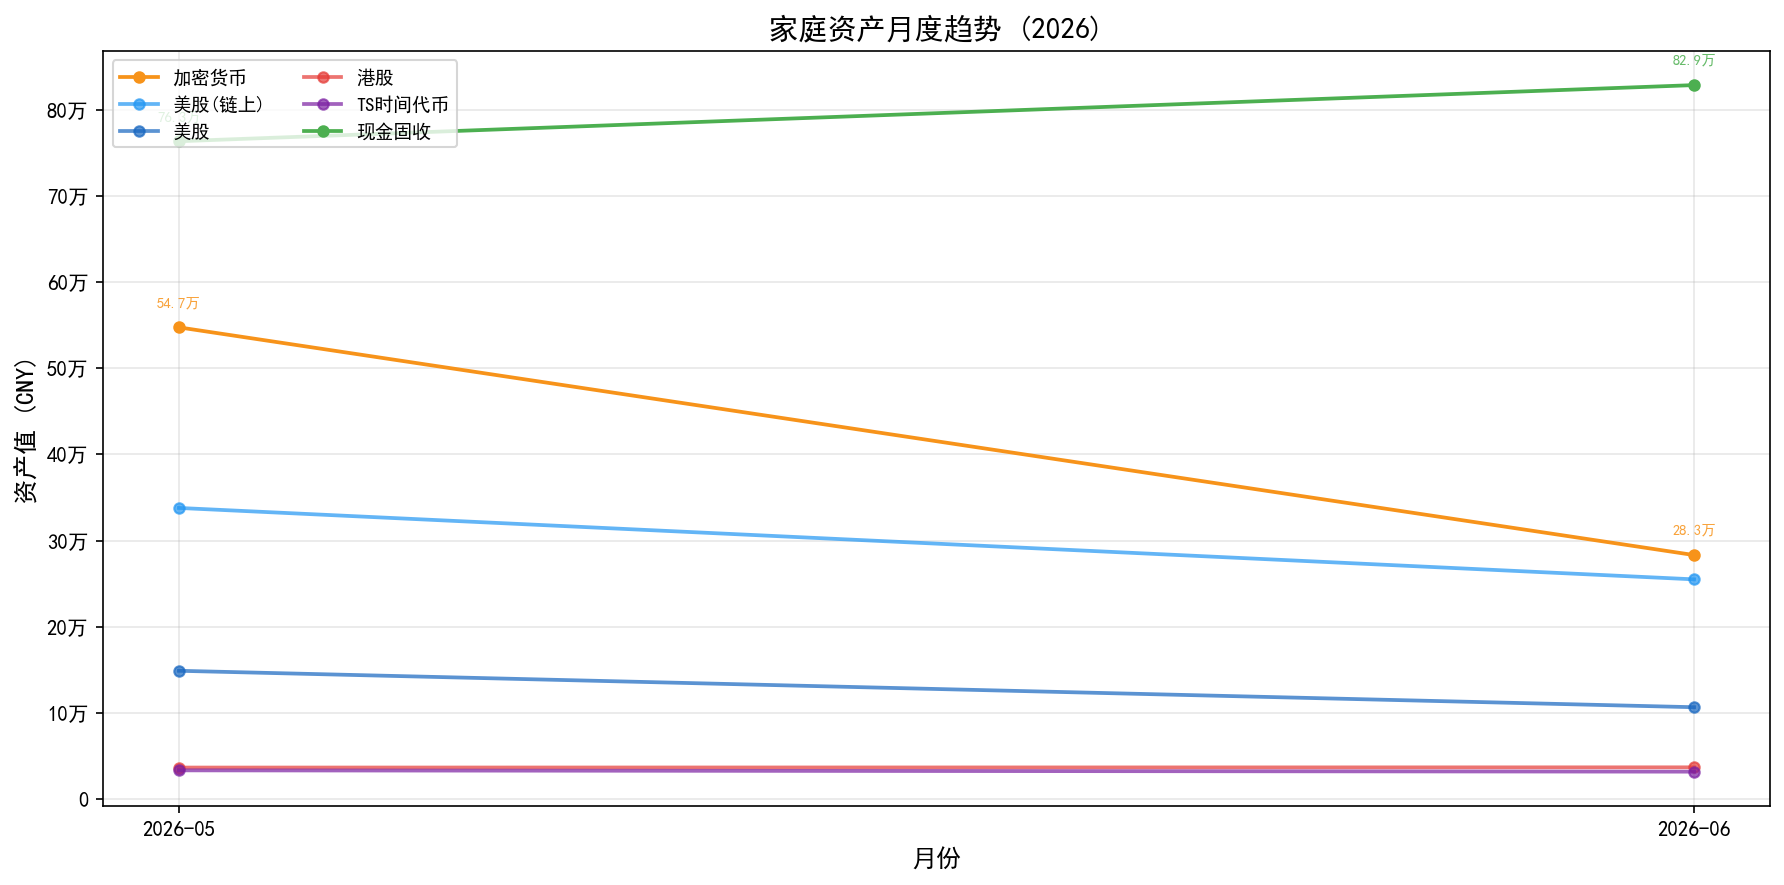
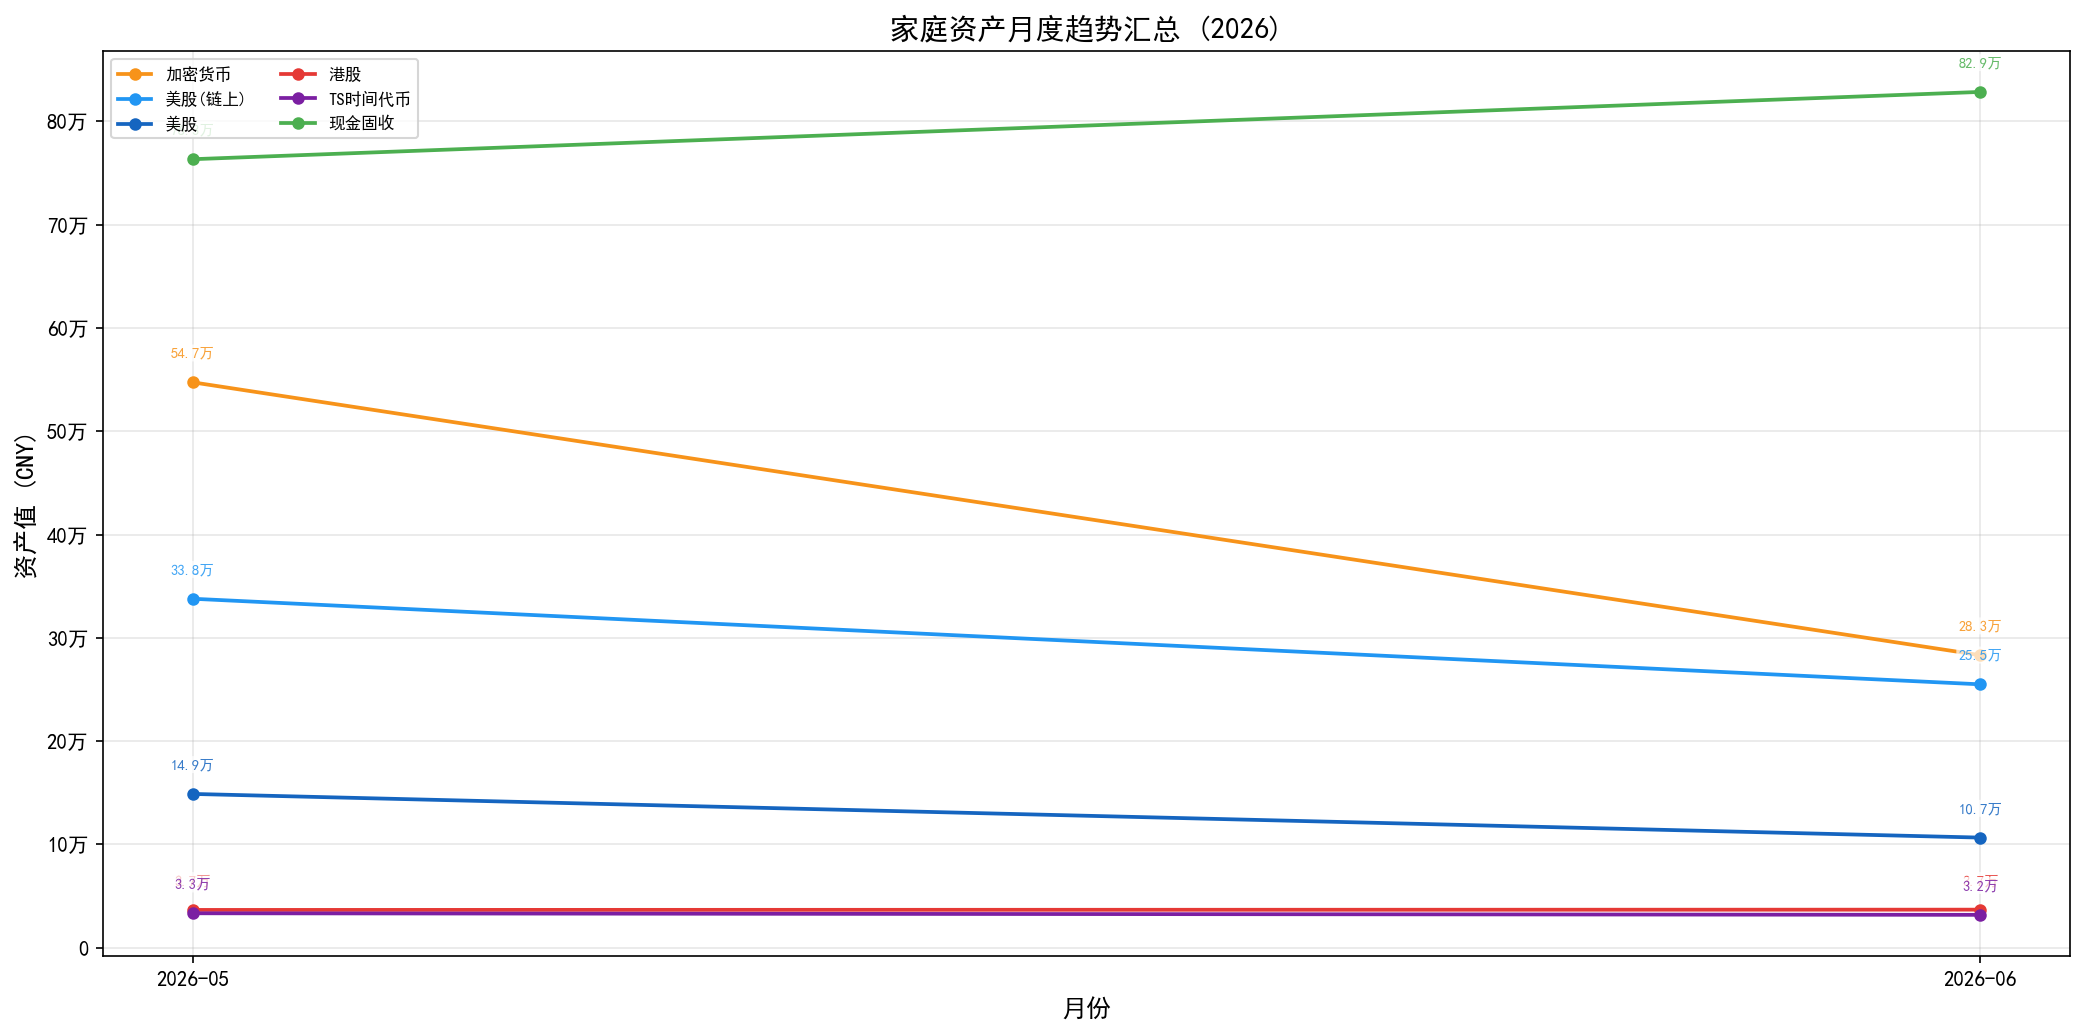
auto: [13 files] 趋势图标注全资产+单独子图 + 社保文件移至company-setup/ (.md .py .png .html)

diff --git a/01-Projects/family-investment/scripts/generate_trend_chart.py b/01-Projects/family-investment/scripts/generate_trend_chart.py
@@ -1,21 +1,18 @@
 #!/usr/bin/env python3
 """
-从月度资产报告提取数据，生成资产趋势折线图。
+从月度资产报告提取数据，生成资产趋势图（汇总图 + 每类资产单独子图）。
 数据源: research/portfolio/reports/家庭资产报告-YYYY-MM.md
-输出:   research/portfolio/reports/images/asset-trend-2026.png
+输出:   research/portfolio/reports/images/
 """
 import re
-import os
 import sys
 from pathlib import Path
-from datetime import datetime
 
 import matplotlib
 matplotlib.use('Agg')
 import matplotlib.pyplot as plt
 import matplotlib.ticker as mticker
 
-# 解决中文字体问题
 plt.rcParams['font.sans-serif'] = ['SimHei', 'Microsoft YaHei', 'DejaVu Sans']
 plt.rcParams['axes.unicode_minus'] = False
 
@@ -24,17 +21,21 @@ REPORTS_DIR = ROOT / 'research' / 'portfolio' / 'reports'
 OUTPUT_DIR = REPORTS_DIR / 'images'
 OUTPUT_DIR.mkdir(parents=True, exist_ok=True)
 
-# 需要从表格中提取的资产类别（按报告中的名称）
 ASSET_KEYS = ['加密货币', '美股(链上)', '美股', '港股', 'A股',
               'TS时间代币', '现金固收', '总资产', '净资产']
 
+COLORS = {
+    '加密货币': '#F7931A', '美股(链上)': '#2196F3', '美股': '#1565C0',
+    '港股': '#E53935', 'A股': '#D32F2F', 'TS时间代币': '#7B1FA2',
+    '现金固收': '#4CAF50', '总资产': '#757575', '净资产': '#000000'
+}
+
 
 def parse_report(filepath):
-    """解析单份月度报告的资产总览表格，返回 {date: {类别: 金额}}"""
+    """解析单份月度报告的资产总览表格"""
     with open(filepath, 'r', encoding='utf-8') as f:
         content = f.read()
 
-    # 提取日期（从 yaml frontmatter 或标题）
     date_match = re.search(r'date:\s*(\d{4}-\d{2}-\d{2})', content)
     if not date_match:
         date_match = re.search(r'(\d{4}-\d{2}-\d{2})', content)
@@ -42,35 +43,111 @@ def parse_report(filepath):
         return None, None
     date_str = date_match.group(1)
 
-    # 定位"一、资产总览"表格
-    # 表格格式: | 类别 | 金额(CNY) | 占比 |
-    # 提取含有 ¥ 符号的行
     result = {}
     in_section = False
     for line in content.split('\n'):
-        # 定位到资产总览章节
         if '一、资产总览' in line or '资产总览' in line:
             in_section = True
             continue
-        # 遇到下一个章节则退出
         if in_section and re.match(r'^##\s', line):
             break
         if not in_section:
             continue
-        # 解析表格行: | 类别 | ¥xxx | xx% |
         match = re.match(r'\|\s*(.+?)\s*\|\s*¥?([\d,]+(?:\.\d+)?)\s*\|', line)
         if match:
             name = match.group(1).strip()
             amount = float(match.group(2).replace(',', ''))
             result[name] = amount
 
-    return date_str[:7], result  # 返回 2026-05 格式
+    return date_str[:7], result
+
+
+def _get_valid_series(all_dates, all_data, key):
+    """返回 (dates, values) 过滤掉 None"""
+    vals = all_data.get(key, [])
+    dates = [d for d, v in zip(all_dates, vals) if v is not None]
+    values = [v for v in vals if v is not None]
+    return dates, values
+
+
+def _annotate_points(ax, dates, values, color, fmt='{:.1f}万'):
+    """在数据点上标注金额"""
+    for x, y in zip(dates, values):
+        text = fmt.format(y / 10000) if y >= 10000 else fmt.format(y)
+        # 垂直偏移：根据数据密度动态调整
+        offset = 12
+        ax.annotate(text, (x, y),
+                    textcoords='offset points', xytext=(0, offset),
+                    fontsize=7, color=color, ha='center', alpha=0.85,
+                    bbox=dict(boxstyle='round,pad=0.15', facecolor='white',
+                              edgecolor='none', alpha=0.7))
+
+
+# ── 汇总图 ──
+def make_summary_chart(all_dates, all_data):
+    fig, ax = plt.subplots(figsize=(14, 7))
+
+    for key in ASSET_KEYS:
+        dates, vals = _get_valid_series(all_dates, all_data, key)
+        if len(vals) < 2:
+            continue
+        color = COLORS.get(key, '#999')
+        lw = 2.5 if key == '净资产' else 1.8
+        ax.plot(dates, vals, '-', linewidth=lw, color=color,
+                label=key, alpha=1.0, marker='o', markersize=5)
+
+        # 所有资产都标注金额
+        _annotate_points(ax, dates, vals, color)
+
+    ax.set_xlabel('月份', fontsize=12)
+    ax.set_ylabel('资产值 (CNY)', fontsize=12)
+    ax.set_title('家庭资产月度趋势汇总 (2026)', fontsize=14, fontweight='bold')
+    ax.legend(loc='upper left', fontsize=8, ncol=2)
+    ax.grid(True, alpha=0.3)
+    ax.yaxis.set_major_formatter(mticker.FuncFormatter(
+        lambda x, _: f'{x/10000:.0f}万' if x >= 10000 else f'{x:.0f}'))
+
+    plt.tight_layout()
+    path = OUTPUT_DIR / 'asset-trend-2026.png'
+    plt.savefig(path, dpi=150, bbox_inches='tight')
+    plt.close()
+    print(f'  ✅ 汇总图: {path}')
+
+
+# ── 单独子图 ──
+def make_individual_charts(all_dates, all_data):
+    """每个资产类别一张独立图"""
+    for key in ASSET_KEYS:
+        dates, vals = _get_valid_series(all_dates, all_data, key)
+        if len(vals) < 2:
+            continue
+
+        fig, ax = plt.subplots(figsize=(8, 4.5))
+        color = COLORS.get(key, '#999')
+
+        ax.plot(dates, vals, '-', linewidth=2.5, color=color,
+                marker='o', markersize=8)
+
+        _annotate_points(ax, dates, vals, color)
+
+        ax.set_xlabel('月份', fontsize=11)
+        ax.set_ylabel('资产值 (CNY)', fontsize=11)
+        ax.set_title(f'{key} 月度趋势', fontsize=13, fontweight='bold', color=color)
+        ax.grid(True, alpha=0.3)
+        ax.yaxis.set_major_formatter(mticker.FuncFormatter(
+            lambda x, _: f'{x/10000:.0f}万' if x >= 10000 else f'{x:.0f}'))
+
+        plt.tight_layout()
+        safe_name = key.replace('(', '').replace(')', '')
+        path = OUTPUT_DIR / f'asset-trend-{safe_name}.png'
+        plt.savefig(path, dpi=150, bbox_inches='tight')
+        plt.close()
+        print(f'  ✅ {key}: {path.name}')
 
 
 def main():
-    # 收集所有报告数据
     all_dates = []
-    all_data = {}  # {类别: [按月份排列的金额列表]}
+    all_data = {}
 
     for filepath in sorted(REPORTS_DIR.glob('家庭资产报告-*.md')):
         month, data = parse_report(filepath)
@@ -84,59 +161,20 @@ def main():
             all_data[key].append(data.get(key))
 
     if len(all_dates) < 2:
-        print('  ⚠ 至少需要 2 期报告才能绘制趋势图')
+        print('  ⚠ 至少需要 2 期报告')
         sys.exit(0)
 
-    # 绘图
-    fig, ax = plt.subplots(figsize=(12, 6))
+    print(f'\n  共 {len(all_dates)} 期报告: {all_dates[0]} ~ {all_dates[-1]}')
 
-    colors = {
-        '加密货币': '#F7931A', '美股(链上)': '#2196F3', '美股': '#1565C0',
-        '港股': '#E53935', 'A股': '#D32F2F', 'TS时间代币': '#7B1FA2',
-        '现金固收': '#4CAF50', '总资产': '#757575', '净资产': '#000000'
-    }
+    print('\n─ 汇总图 ─')
+    make_summary_chart(all_dates, all_data)
 
-    for key in ASSET_KEYS:
-        if key not in all_data or len(all_data[key]) < 2:
-            continue
-        vals = all_data[key]
-        # 过滤 None（该月不存在此类别）
-        plot_dates = [d for d, v in zip(all_dates, vals) if v is not None]
-        plot_vals = [v for v in vals if v is not None]
-        if len(plot_vals) < 2:
-            continue
+    print('\n─ 单独资产图 ─')
+    make_individual_charts(all_dates, all_data)
 
-        color = colors.get(key, '#999999')
-        lw = 2.5 if key == '净资产' else 1.8
-        style = '-' if key == '净资产' else '-'
-        alpha = 1.0 if key in ('净资产', '总资产', '现金固收', '加密货币') else 0.7
-
-        ax.plot(plot_dates, plot_vals, style, linewidth=lw,
-                color=color, label=key, alpha=alpha, marker='o', markersize=5)
-
-        # 在数据点上标注具体金额
-        if key in ('净资产', '总资产', '现金固收', '加密货币'):
-            for x, y in zip(plot_dates, plot_vals):
-                offset = 15 if key == '净资产' else 10
-                ax.annotate(f'{y/10000:.1f}万', (x, y),
-                            textcoords='offset points', xytext=(0, offset),
-                            fontsize=7, color=color, ha='center', alpha=0.85)
-
-    ax.set_xlabel('月份', fontsize=12)
-    ax.set_ylabel('资产值 (CNY)', fontsize=12)
-    ax.set_title('家庭资产月度趋势 (2026)', fontsize=14, fontweight='bold')
-    ax.legend(loc='upper left', fontsize=9, ncol=2)
-    ax.grid(True, alpha=0.3)
-    ax.yaxis.set_major_formatter(mticker.FuncFormatter(
-        lambda x, _: f'{x/10000:.0f}万' if x >= 10000 else f'{x:.0f}'))
-
-    plt.tight_layout()
-    output_path = OUTPUT_DIR / 'asset-trend-2026.png'
-    plt.savefig(output_path, dpi=150, bbox_inches='tight')
-    plt.close()
-    print(f'\n  ✅ 趋势图已保存: {output_path}')
+    print('\n  🎉 全部图表生成完毕')
 
 
 if __name__ == '__main__':
-    print('正在生成资产趋势图...')
+    print('正在生成资产趋势图...\n')
     main()

diff --git a/01-Projects/family-investment/company-setup/index.md b/01-Projects/family-investment/company-setup/index.md
@@ -1,0 +1,24 @@
+# company-setup/
+
+> 北京开办有限责任公司相关研究、规划与操作指南。
+
+## 文件清单
+
+| 文件 | 说明 |
+|------|------|
+| [[./beijing-company-social-insurance-plan.md]] | 完整实施指南：从注册到每月运转 |
+
+## 关键数据速查
+
+| 项目 | 数值 |
+|------|------|
+| 方案 | 有限责任公司，法人爱人（99%）+ 弟弟（1%） |
+| 月薪 | 爱人7000元，弟弟6500元 |
+| 社保基数 | 最低基数6326元（2026年） |
+| 公积金 | 5% |
+| 年净成本 | ~5.4万 |
+| 目标达成 | 2031年满足北京摇号资格 |
+
+---
+
+**最后更新**: 2026-06-12

diff --git a/01-Projects/family-investment/PROJECT-RULES.md b/01-Projects/family-investment/PROJECT-RULES.md
@@ -53,6 +53,6 @@
 - **`beijing-company-social-insurance-plan.html`** ← 自动生成，禁止手动编辑
 - **修改 .md 后必须同步重生成 .html**：
   ```
-  python 05-Tools/fileops/md2html.py 01-Projects/family-investment/research/beijing-company-social-insurance-plan.md
+  python 05-Tools/fileops/md2html.py 01-Projects/family-investment/company-setup/beijing-company-social-insurance-plan.md
   ```
 - HTML 文件头部有 `<!-- AUTO-GENERATED -->` 标记，方便识别

diff --git a/01-Projects/family-investment/research/index.md b/01-Projects/family-investment/research/index.md
@@ -7,7 +7,7 @@
 | 文件/目录 | 说明 |
 |-----------|------|
 | [[./portfolio/]] | 持仓追踪（holdings.yaml + 自动报告 + 交易日志 + A8计划） |
-| [[./beijing-company-social-insurance-plan.md]] | 北京公司社保规划 |
+| [[../company-setup/beijing-company-social-insurance-plan.md]] | 北京开公司社保全攻略 |
 
 ## 关联资源
 
